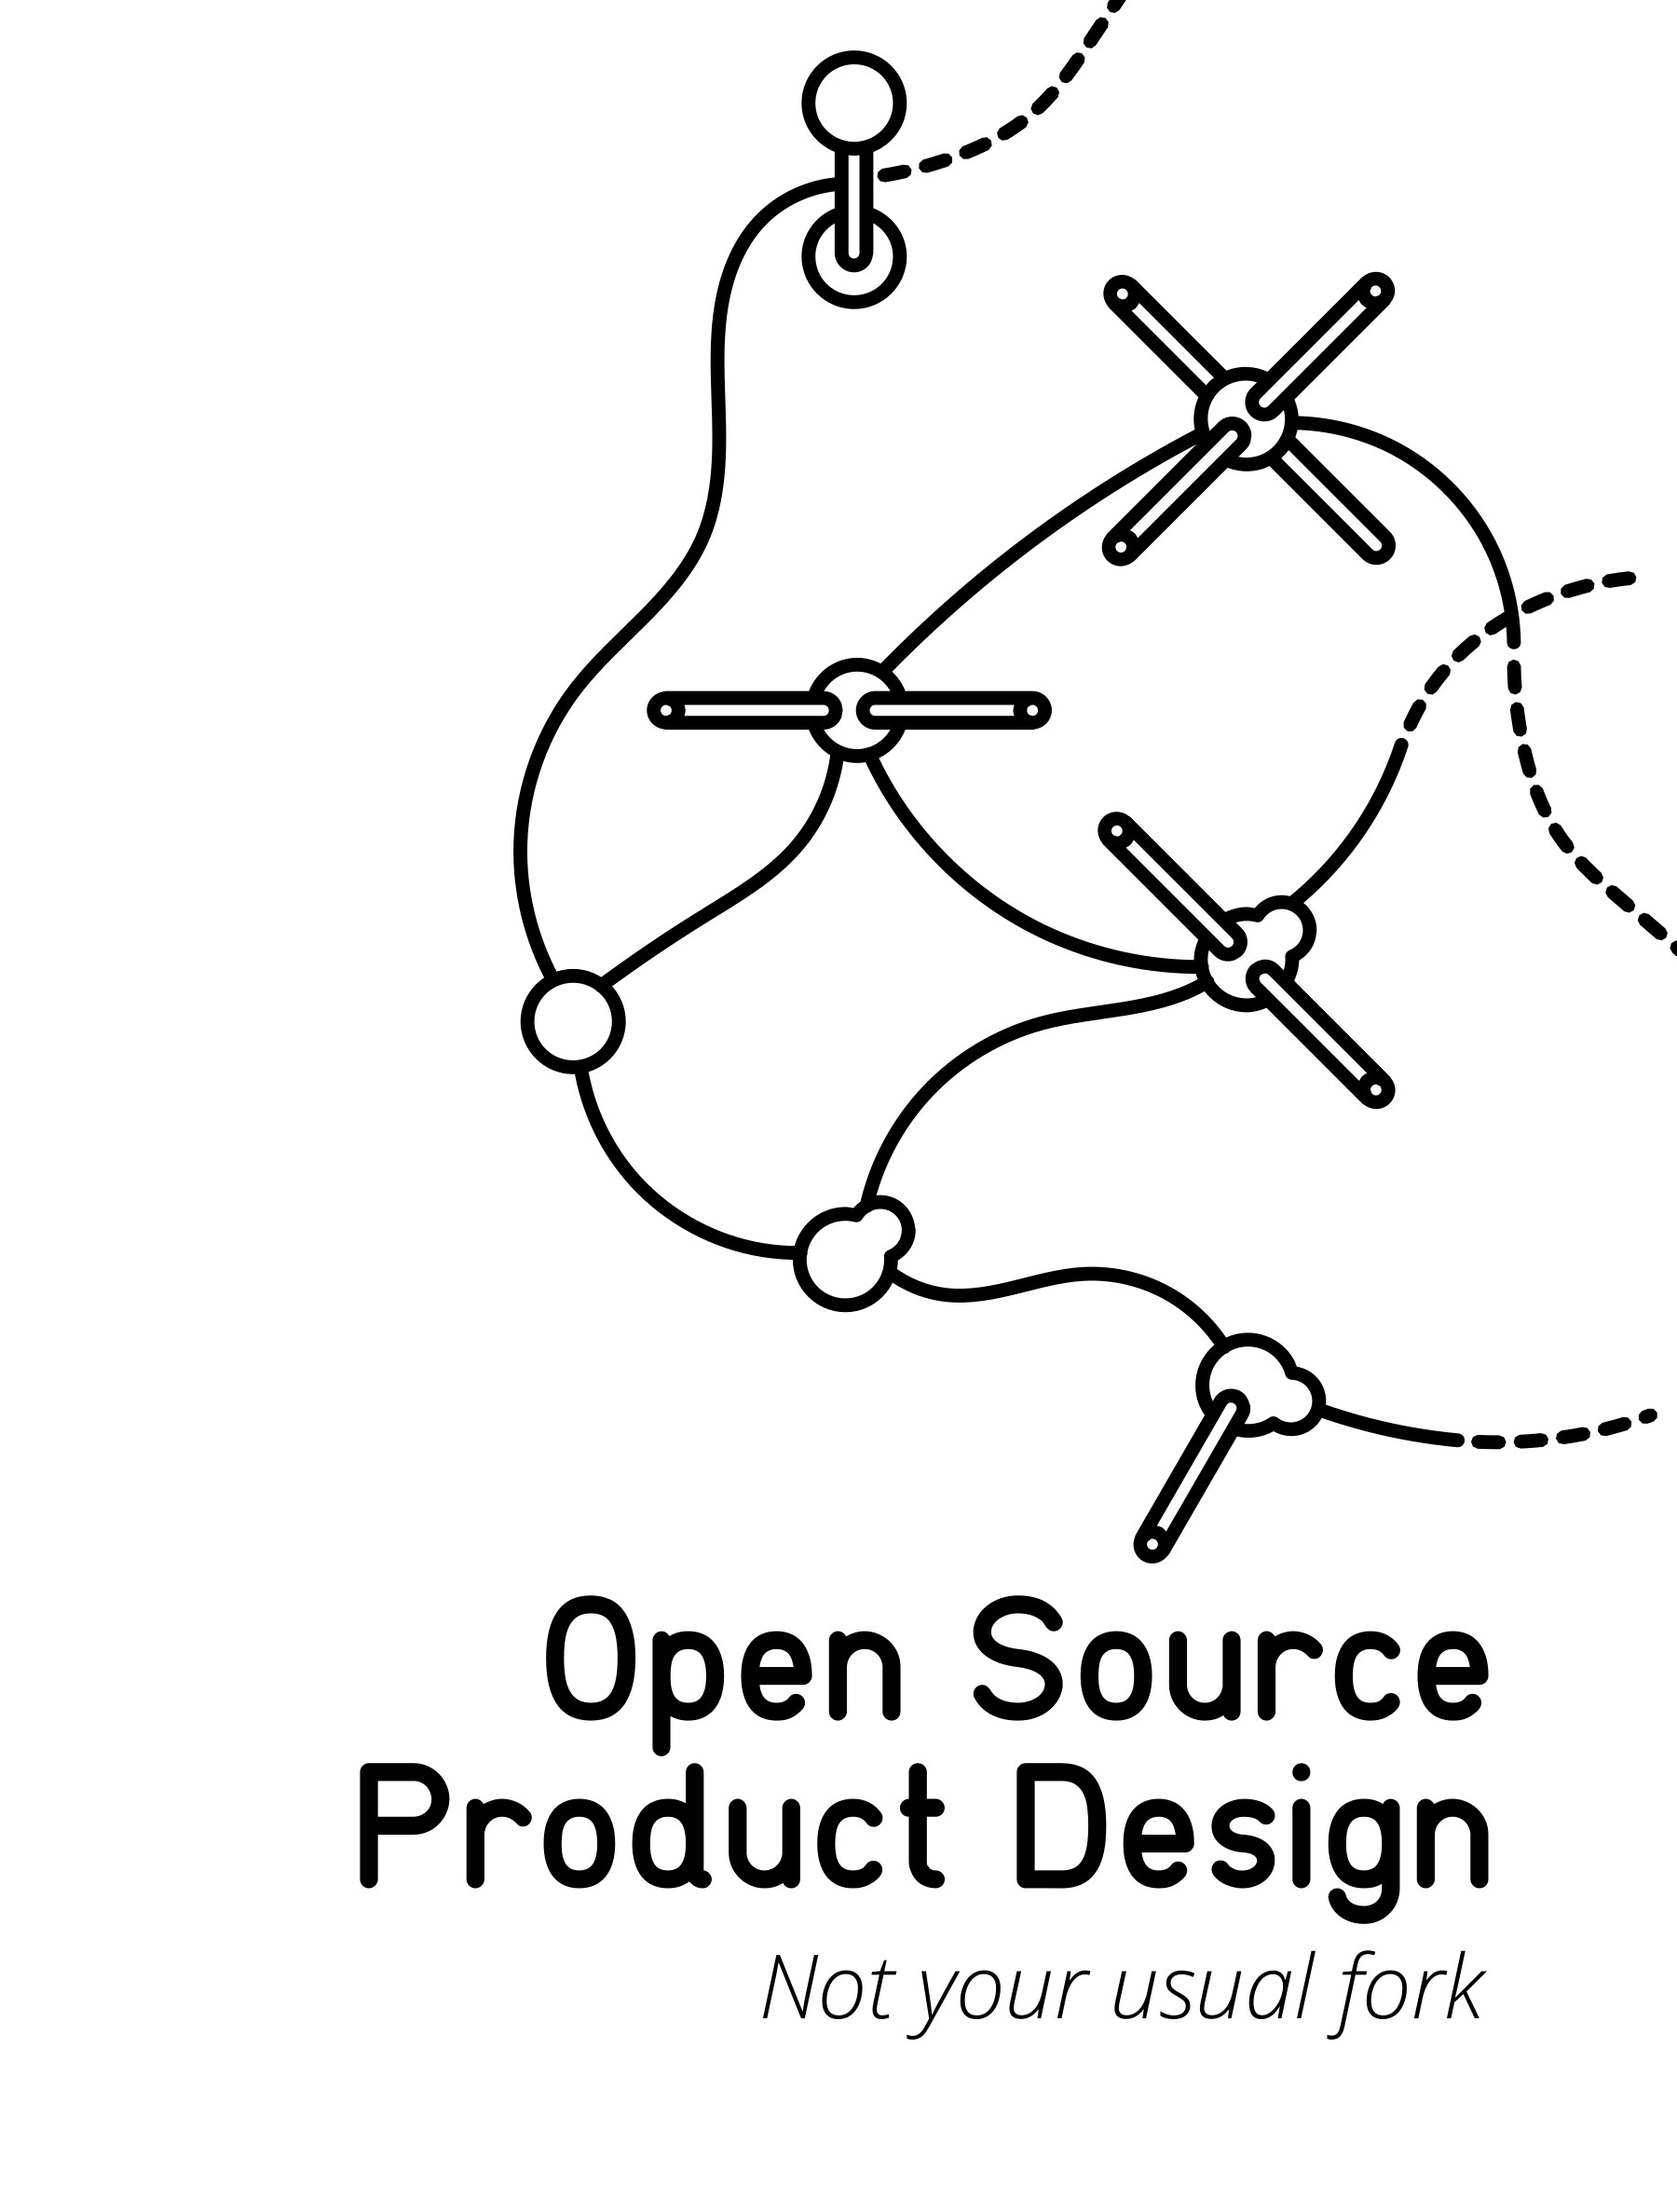
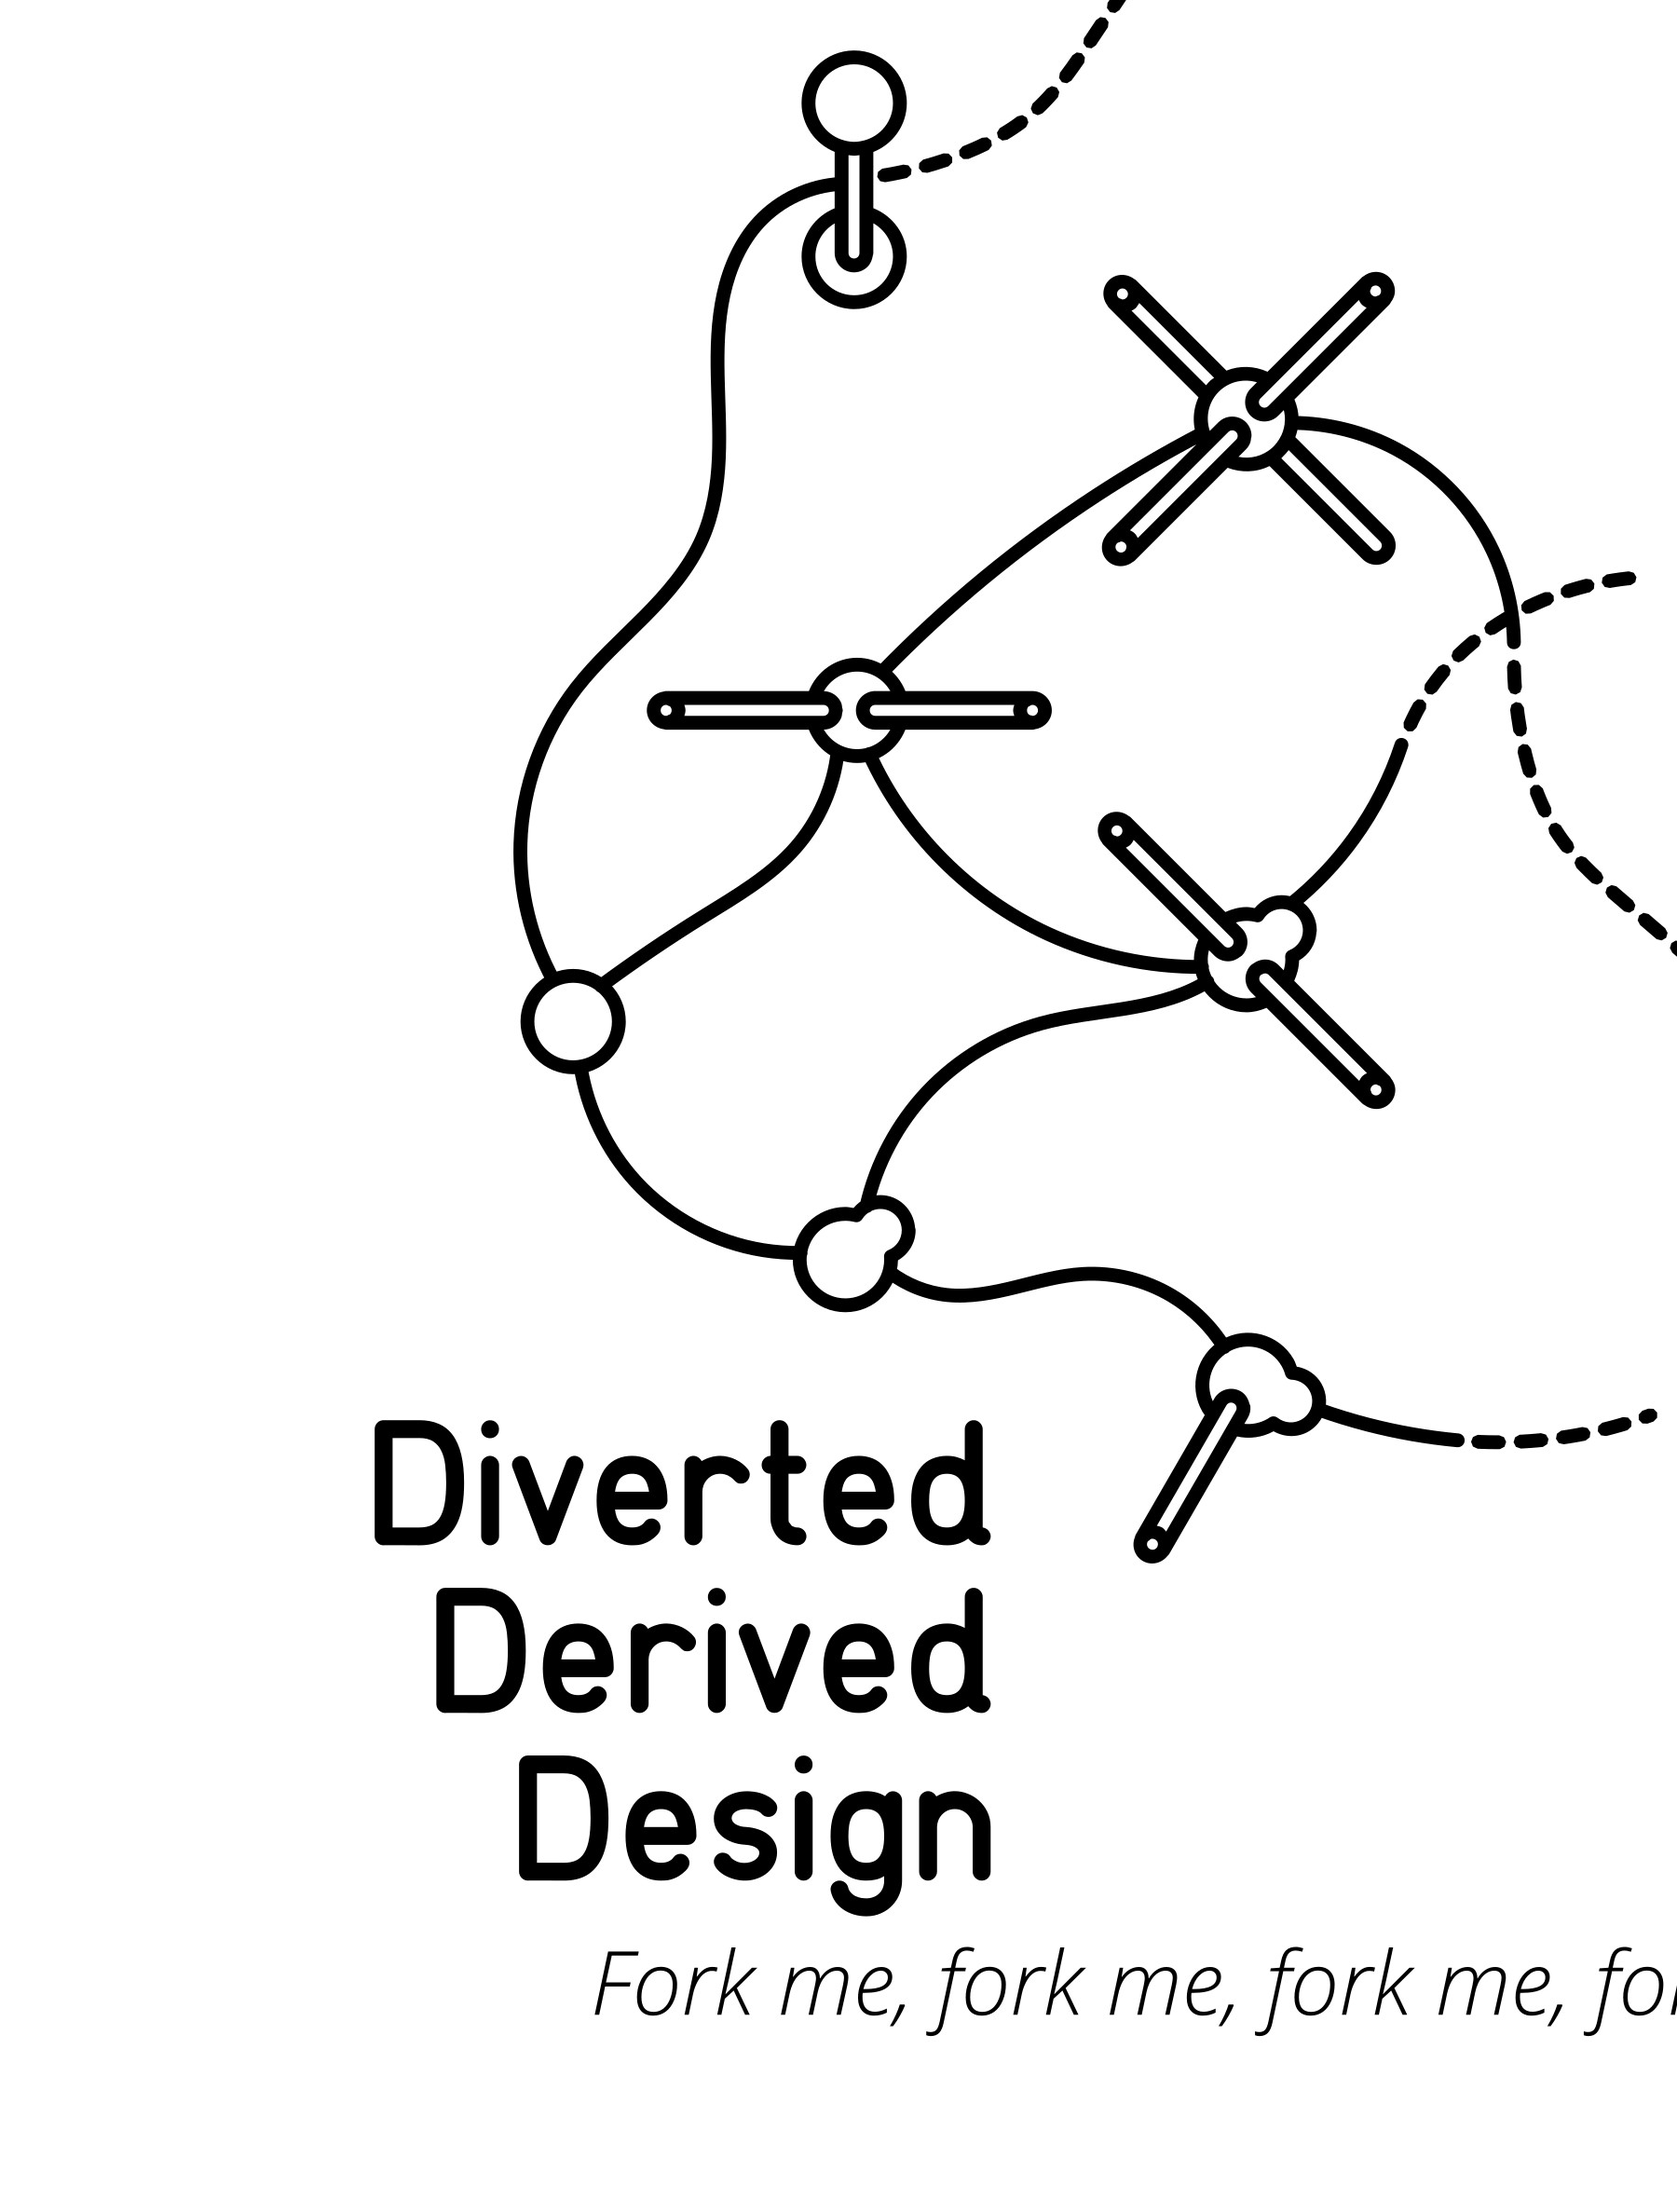
last changes before live presentation at Medialab Prado and opening of exhibition

Changed region(s): [[0.1867, 0.6496, 0.9333, 0.928], [0.9644, 0.897, 1.0, 0.928]]

diff --git a/this_book.md b/this_book.md
@@ -14,7 +14,7 @@ The co-authors present at Medialab Prado were:
 - Øyvind Kolås, digital media toolsmith − http://pippin.gimp.org/
 - Martin Lévêque, product designer − https://www.behance.net/martinleveque
 
-This project could not have been possible without the support of Josian Llorente, Wendy Van Wynsberghe and the whole team at Medialab Prado.
+This project could not have been possible without the support of Josian Llorente, Jara Rocha, Wendy Van Wynsberghe and the whole team at Medialab Prado.
 
 This book is also liberated and published under the Free Art License 1.3. Which means that if you want to copy it, distribute it or modify it, you're more than welcome to do so, as long as you credit all the co-authors.
 
@@ -24,6 +24,14 @@ The source files are available at {{ book.meta.source_url }}
 
 You're reading a version that has been compiled on the {{ book.meta.compilation_date }} with Gitbook version {{ gitbook.version }}.
 
+About the title
+---------------
+
+During the whole process of writing, many titles were proposed. Some were more pleasing than others. Some were funny. Some were rude. But somehow we could never settle for one. Close to the end of the 2 weeks, while we were printing the first versions of it, Øyvind got confused by a typo in the book and made a word become "derived", although the initial author meant "diverted".
+
+Those two words fitting nicely with the practice of free/libre open source design, it seemed a perfect fit for a catchy title with an alliterative twist, and so was born the _Diverted Derived Design_.
+
+<div class="page-break"></div>
 Tools
 -------
 
